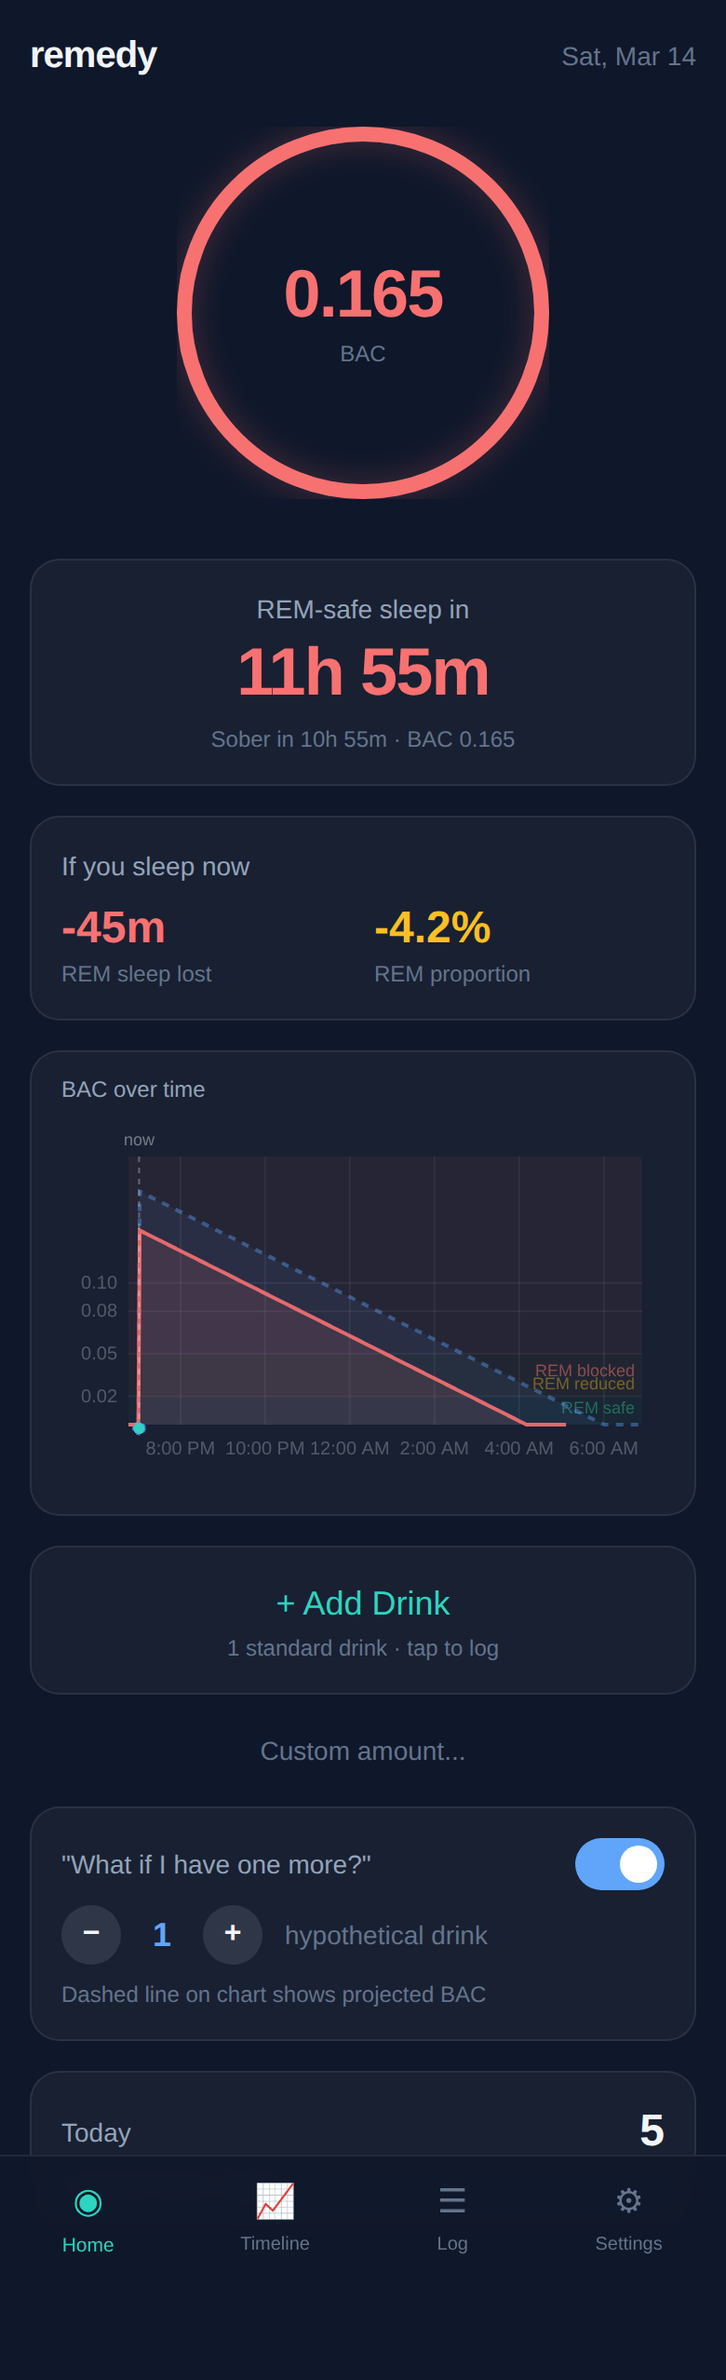
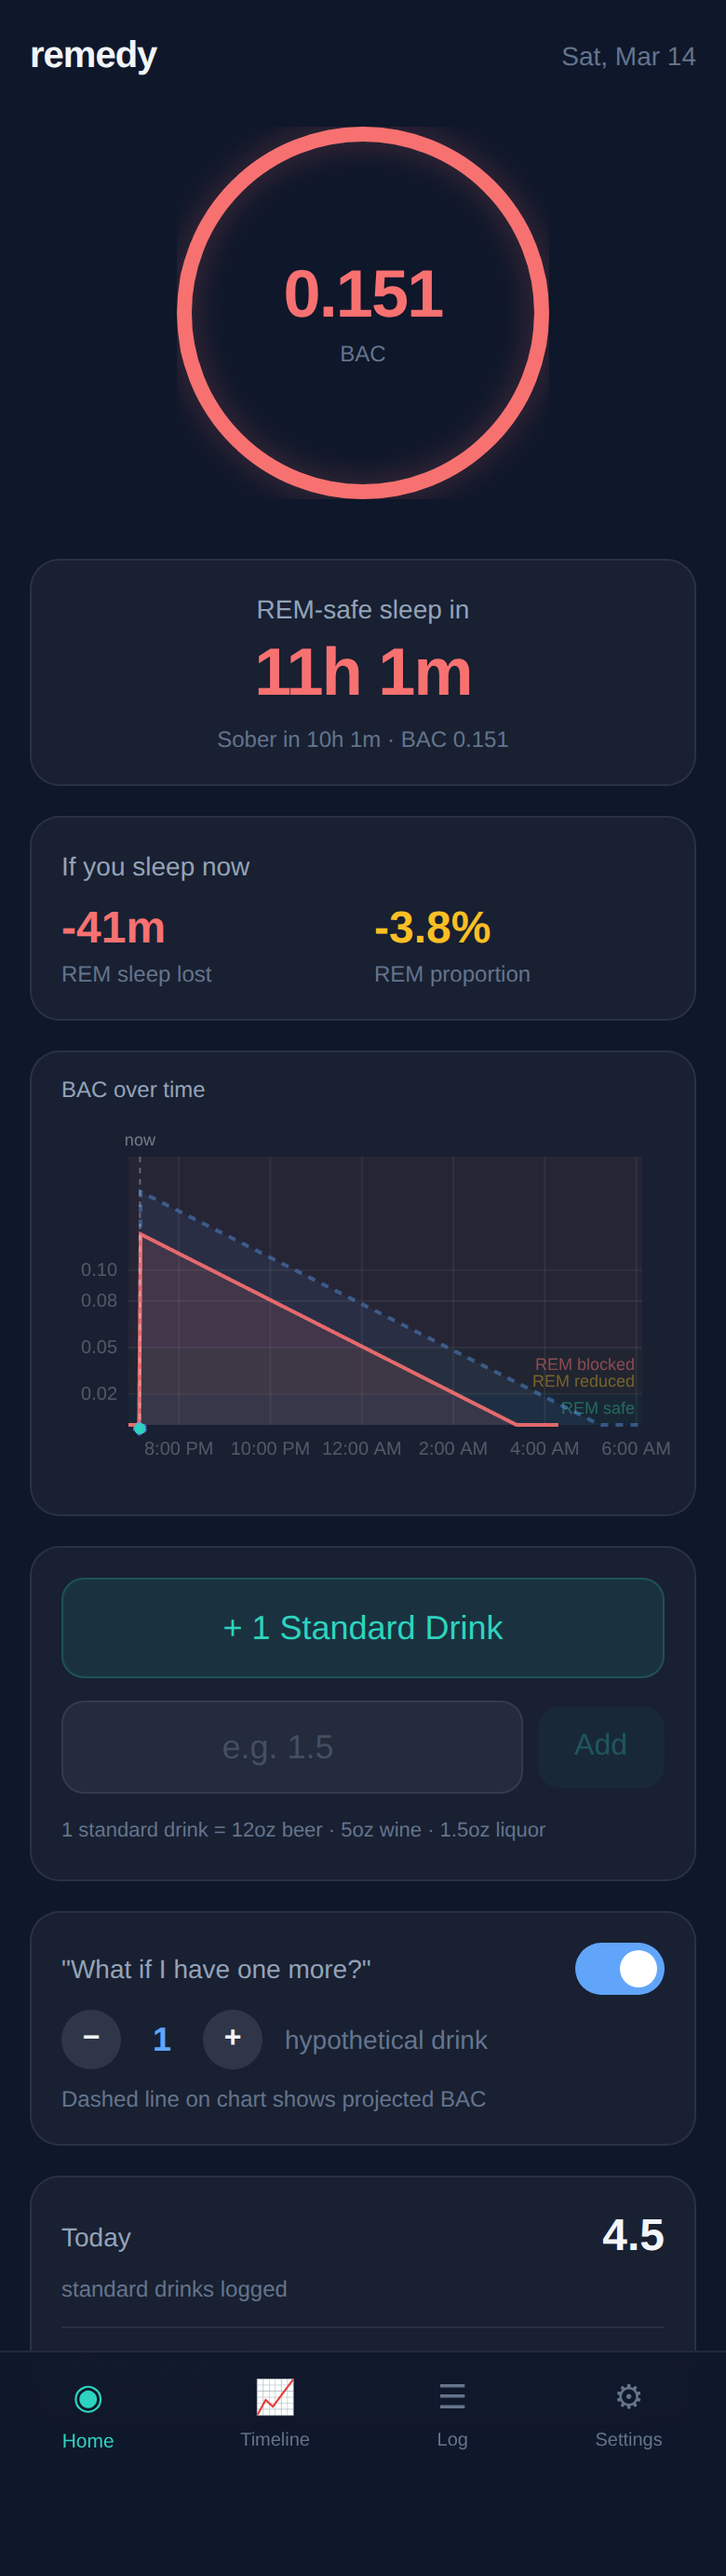
Add reset with confirmation and redesigned drink input
- Reset session button in tally card with two-step confirmation
  ("Reset session" → "Clear all drinks? Yes, clear / Cancel")
- Drink input redesigned: standard drink button + always-visible
  custom amount field with decimal input (e.g. 1.5 std drinks)
- Standard drink reference line: "12oz beer · 5oz wine · 1.5oz liquor"
- Removed hidden "Custom amount..." toggle in favor of persistent input

https://claude.ai/code/session_01DsPsUywqPmyv1QM4HMqGXa

diff --git a/src/App.tsx b/src/App.tsx
@@ -38,9 +38,9 @@ function App() {
   const [activeTab, setActiveTab] = useState<Tab>('home');
   const [whatIfMode, setWhatIfMode] = useState(false);
   const [whatIfDrinks, setWhatIfDrinks] = useState(1);
-  const [customAmount, setCustomAmount] = useState<number | null>(null);
-  const [showCustomInput, setShowCustomInput] = useState(false);
+  const [customAmount, setCustomAmount] = useState<string>('');
   const [drinkPulse, setDrinkPulse] = useState(false);
+  const [showResetConfirm, setShowResetConfirm] = useState(false);
   const [tick, setTick] = useState(0); // force re-render every second
   const pulseTimeout = useRef<ReturnType<typeof setTimeout>>(undefined);
 
@@ -109,8 +109,6 @@ function App() {
         ...prev,
         { id: generateId(), timestamp: Date.now(), standardDrinks },
       ]);
-      setShowCustomInput(false);
-      setCustomAmount(null);
 
       setDrinkPulse(true);
       if (pulseTimeout.current) clearTimeout(pulseTimeout.current);
@@ -118,6 +116,12 @@ function App() {
     },
     [updateDrinks]
   );
+
+  const clearSession = useCallback(() => {
+    updateDrinks(() => []);
+    setShowResetConfirm(false);
+    setWhatIfMode(false);
+  }, [updateDrinks]);
 
   const removeDrink = useCallback(
     (id: string) => updateDrinks((prev) => prev.filter((d) => d.id !== id)),
@@ -199,56 +203,48 @@ function App() {
               hypotheticalDrinks={hypotheticalDrinksList}
             />
 
-            {/* Quick Add */}
-            <button
-              onClick={() => addDrink(1)}
-              className={`w-full card p-4 text-center active:scale-[0.97] transition-all duration-200 border border-accent-teal/20 hover:border-accent-teal/40 ${
-                drinkPulse ? 'ring-2 ring-accent-teal/30 scale-[0.98]' : ''
-              }`}
-            >
-              <span className="text-lg font-medium text-accent-teal">+ Add Drink</span>
-              <span className="block text-xs text-text-muted mt-0.5">
-                1 standard drink · tap to log
-              </span>
-            </button>
+            {/* Add Drinks */}
+            <div className="card p-4 space-y-3">
+              <button
+                onClick={() => addDrink(1)}
+                className={`w-full py-3 rounded-xl text-center active:scale-[0.97] transition-all duration-200 bg-accent-teal/10 border border-accent-teal/20 hover:border-accent-teal/40 ${
+                  drinkPulse ? 'ring-2 ring-accent-teal/30 scale-[0.98]' : ''
+                }`}
+              >
+                <span className="text-lg font-medium text-accent-teal">+ 1 Standard Drink</span>
+              </button>
 
-            {showCustomInput ? (
-              <div className="card p-3 flex items-center gap-2 animate-fade-in">
+              <div className="flex items-center gap-2">
                 <input
                   type="number"
+                  inputMode="decimal"
                   step="0.5"
-                  min="0.5"
+                  min="0.1"
                   max="10"
-                  placeholder="# drinks"
-                  value={customAmount ?? ''}
-                  onChange={(e) =>
-                    setCustomAmount(e.target.value ? parseFloat(e.target.value) : null)
-                  }
-                  className="flex-1 bg-transparent border border-border-glass rounded-lg px-3 py-2 text-text-primary outline-none focus:border-accent-teal/50 text-center text-lg"
-                  autoFocus
+                  placeholder="e.g. 1.5"
+                  value={customAmount}
+                  onChange={(e) => setCustomAmount(e.target.value)}
+                  className="flex-1 bg-white/5 border border-border-glass rounded-xl px-3 py-2.5 text-text-primary outline-none focus:border-accent-teal/50 text-center text-lg placeholder:text-text-muted/50"
                 />
                 <button
-                  onClick={() => customAmount && addDrink(customAmount)}
-                  disabled={!customAmount || customAmount <= 0}
-                  className="bg-accent-teal/20 text-accent-teal px-4 py-2 rounded-lg font-medium disabled:opacity-30"
+                  onClick={() => {
+                    const val = parseFloat(customAmount);
+                    if (val > 0) {
+                      addDrink(val);
+                      setCustomAmount('');
+                    }
+                  }}
+                  disabled={!customAmount || parseFloat(customAmount) <= 0 || isNaN(parseFloat(customAmount))}
+                  className="bg-accent-teal/15 text-accent-teal px-5 py-2.5 rounded-xl font-medium disabled:opacity-30 active:scale-95 transition-all"
                 >
                   Add
                 </button>
-                <button
-                  onClick={() => { setShowCustomInput(false); setCustomAmount(null); }}
-                  className="text-text-muted px-2 py-2"
-                >
-                  ✕
-                </button>
               </div>
-            ) : (
-              <button
-                onClick={() => setShowCustomInput(true)}
-                className="w-full text-center text-sm text-text-muted py-1"
-              >
-                Custom amount...
-              </button>
-            )}
+
+              <p className="text-[11px] text-text-muted leading-relaxed">
+                1 standard drink = 12oz beer · 5oz wine · 1.5oz liquor
+              </p>
+            </div>
 
             {/* What-If */}
             <div className={`card p-4 transition-all duration-300 ${whatIfMode ? 'border border-accent-blue/20' : ''}`}>
@@ -309,6 +305,38 @@ function App() {
               <p className="text-xs text-text-muted mt-1">
                 standard drink{totalDrinks !== 1 ? 's' : ''} logged
               </p>
+
+              {/* Reset */}
+              {drinks.length > 0 && (
+                <div className="mt-3 pt-3 border-t border-border-glass">
+                  {showResetConfirm ? (
+                    <div className="flex items-center justify-between animate-fade-in">
+                      <span className="text-sm text-accent-red">Clear all drinks?</span>
+                      <div className="flex gap-2">
+                        <button
+                          onClick={clearSession}
+                          className="px-3 py-1.5 rounded-lg bg-accent-red/15 text-accent-red text-sm font-medium active:scale-95 transition-transform"
+                        >
+                          Yes, clear
+                        </button>
+                        <button
+                          onClick={() => setShowResetConfirm(false)}
+                          className="px-3 py-1.5 rounded-lg bg-white/5 text-text-muted text-sm active:scale-95 transition-transform"
+                        >
+                          Cancel
+                        </button>
+                      </div>
+                    </div>
+                  ) : (
+                    <button
+                      onClick={() => setShowResetConfirm(true)}
+                      className="text-sm text-text-muted hover:text-accent-red transition-colors"
+                    >
+                      Reset session
+                    </button>
+                  )}
+                </div>
+              )}
             </div>
           </div>
         )}
